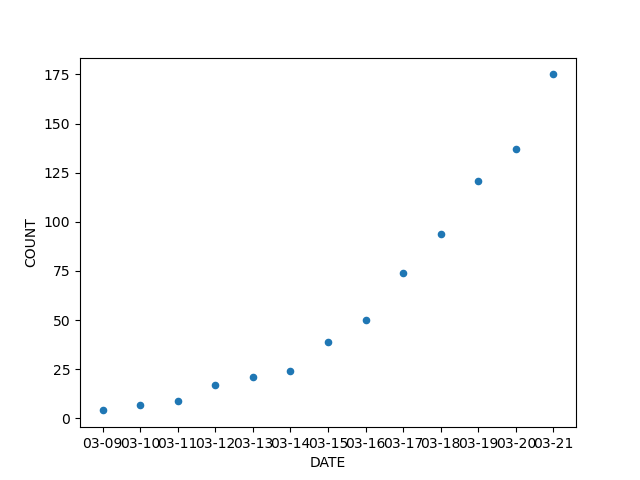
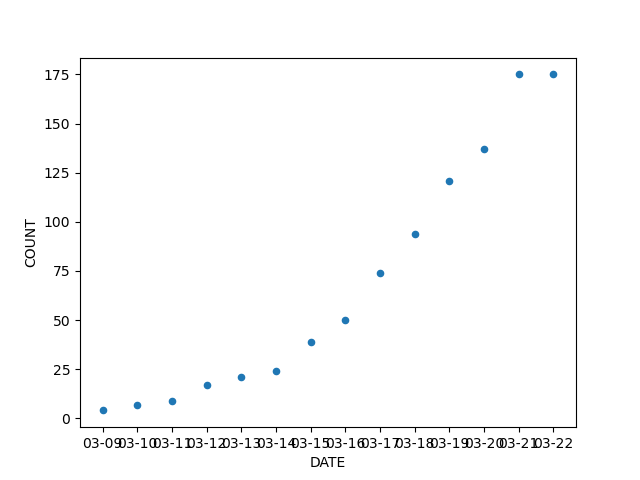
de 个 bug

diff --git a/Misc/getcount.py b/Misc/getcount.py
@@ -6,6 +6,15 @@ pagebytes = fp.read()
 page = pagebytes.decode("utf8")
 fp.close()
 
+# get date, exit if not today
+index = page.find("Nombre de cas confirmés, en date")
+date_str = page[index+35:index+40]
+date_str = ''.join(x for x in date_str if x.isdigit())
+from datetime import datetime
+today = datetime.today().strftime('%d')
+if date_str != today :
+    exit()
+
 # get count
 index = page.find("<strong>Au Québec</strong>")
 segment = page[index+23:]
@@ -33,7 +42,6 @@ mtl_str = ''.join(x for x in mtl_str if x.isdigit())
 # function to append record
 def append(filename, record) :
     # construct csv string to append
-    from datetime import datetime
     csv_str = "\n"+datetime.today().strftime('%m-%d')+","+record
 
     # get latest in file
@@ -46,18 +54,14 @@ def append(filename, record) :
         cur_record = ''
 
     # only append if a new count is obtained
-    if cur_record != datetime.today().strftime('%m-%d')+","+record :
-        with open(filename,'a') as fd:
-            fd.write(csv_str)
-        return True
+    with open(filename,'a') as fd:
+        fd.write(csv_str)
 
 # append new record to each file
-appended = append('covid-19.csv',num_str)
-appended = append('death.csv',death_str) or appended
-appended = append('recovered.csv',recovered_str) or appended
-appended = append('montreal.csv',mtl_str) or appended
-if not appended :
-    exit()
+append('covid-19.csv',num_str)
+append('death.csv',death_str)
+append('recovered.csv',recovered_str)
+append('montreal.csv',mtl_str)
 
 # make a new graph if new count appended
 import pandas as pd
